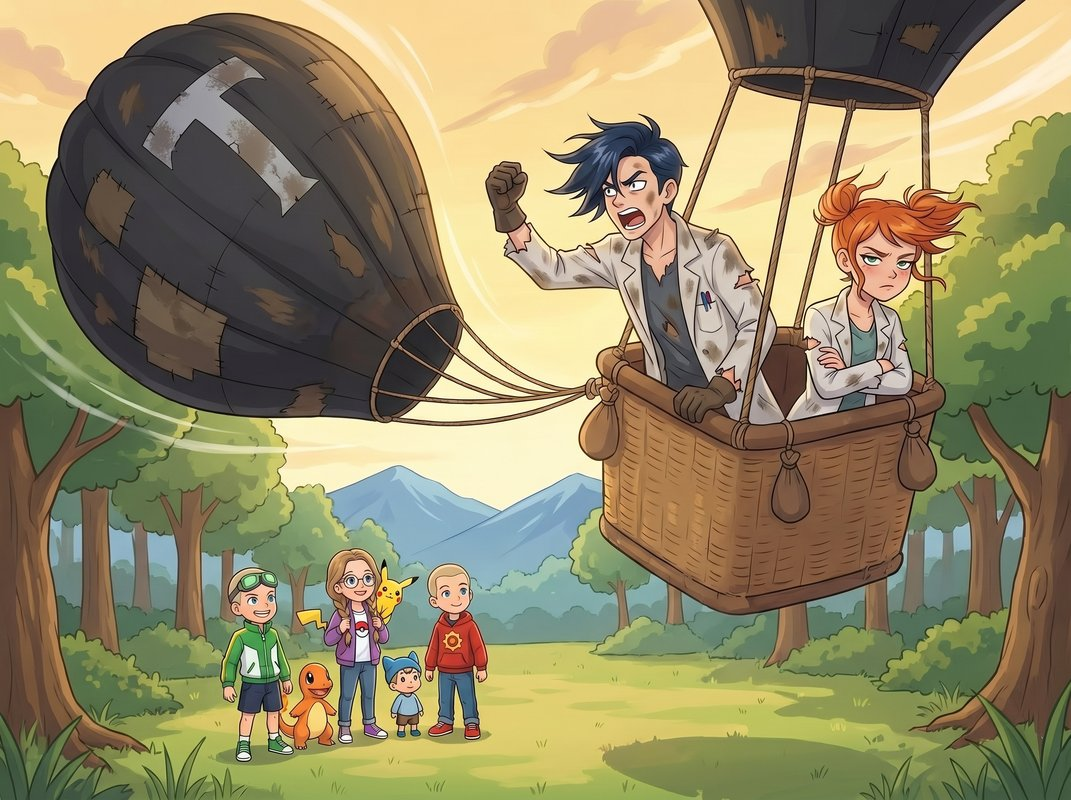
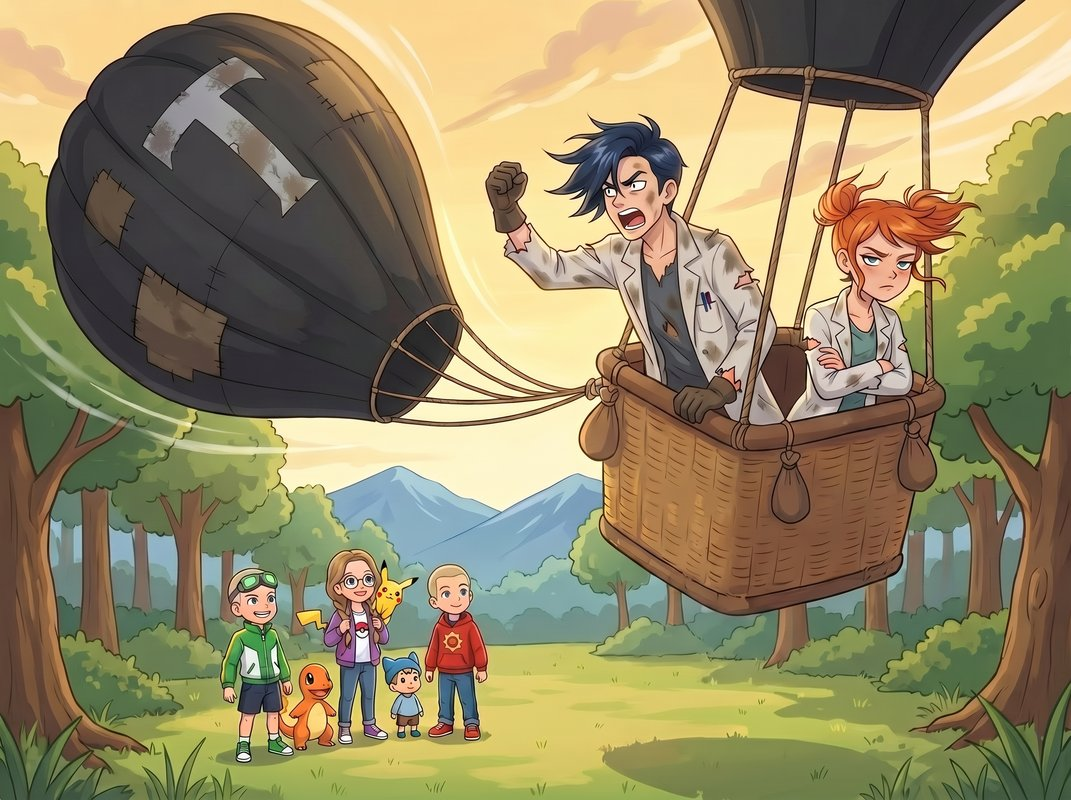
Ep9 v2: правки по ревью автора
- Текст: убрано масло в Сцене 1 (жонглирование камушками), очки → молочно-белые, диалог Нико переделан (эмпатия через руку), удалён arithmetic-диалог, убрано упоминание камня, Пикачу прячется в тени (не на виду)
- Scene 1 регенерация — без хлеба/масла, Макстер жонглирует камушками
- Scene 3 регенерация — Ромус ВНУТРИ клетки смотрит через щель
- Scene 4 image-to-image fix — один шар вместо трёх
- Scene 5 (новая) — Грей вид со спины в лаборатории
- HTML: заголовки сцен <h2 class="scene-title">

diff --git a/episodes/ep09.html b/episodes/ep09.html
@@ -11,7 +11,6 @@
 <style>
 .poster { background:#fff8ee; border:2px solid #c4a46c; border-radius:8px; padding:14px 22px; text-align:center; margin:16px 0; font-family:'Comfortaa',sans-serif; color:#3c2a1a; }
 .poster em { color:#7b4bc4; font-size:0.9em; }
-.scene-break { text-align:center; color:#c4a46c; font-size:1.3em; letter-spacing:0.4em; margin:32px 0 16px; }
 </style>
 </head>
 <body>
@@ -26,6 +25,7 @@
 <div class="episode-header"><p class="season-label">Сезон 1</p><h1>Эпизод 9. «Ловушка Команды Тень»</h1></div>
 <button class="print-btn" onclick="window.print()">🖨 Печать</button>
 <div class="episode-text">
+<h2 class="scene-title">Объявление на столбе</h2>
 <img src="../images/ep09/ep09_scene1_morning.jpg" alt="" class="episode-illustration" loading="lazy">
 <p>Костёр догорал в сероватый предрассветный воздух. Пар от кружки поднимался прямо и тонко — ветер спал.</p>
 <p>Ромус сидел с блокнотом на коленях. Красная худи с шестерёнкой была расстёгнута на одну пуговицу — так удобнее дышать. Рядом, у ноги, Бульбазавр (Bulbasaur) тихо принюхивался к траве. Луковица на спине чуть-чуть покачивалась — Бульбазавр просто смотрел, как просыпается лес.</p>
@@ -40,15 +40,17 @@
 <p class="dialogue">— Доброе, — кивнула Кристи. — Ты выспался? Там внутри не тесно?</p>
 <p class="dialogue">— Ктер-ктер.</p>
 <p class="dialogue">— Это значит «нет». Отлично.</p>
-<p>Макстер откусил огромный кусок хлеба. Зелёные гоглы на лбу сдвинулись чуть на один бок — он их всегда поправлял, когда жевал. Масла поверх хлеба было ровно <strong>на палец меньше</strong>, чем неделю назад — он гордо об этом помнил.</p>
-<p class="dialogue">— Видали? — Макстер показал хлеб. — Режим спокойного тренера работает.</p>
-<p class="dialogue">— Всего четыре дня, — не отрываясь от блокнота, произнёс Ромус.</p>
-<p class="dialogue">— Четыре — это много. Это почти неделя.</p>
-<p class="dialogue">— Это не неделя.</p>
-<p class="dialogue">— Почти неделя — это тоже много. Кристи, скажи ему.</p>
-<p>Кристи не подняла глаз.</p>
-<p class="dialogue">— Четыре — это четыре.</p>
-<p>Макстер обиженно откусил ещё кусок.</p>
+<p>Макстер сидел на бревне и жонглировал тремя круглыми камушками. Два подбросил, третий попытался поймать — и промахнулся. Камушек глухо шлёпнулся на мох у его ноги.</p>
+<p class="dialogue">— Видали? — Макстер победно поднял два оставшихся. — Два из трёх. Это почти два из двух!</p>
+<p class="dialogue">— Это два из трёх, — не отрываясь от блокнота, произнёс Ромус.</p>
+<p class="dialogue">— Но почти!</p>
+<p class="dialogue">— Четыре дня назад было один из трёх. Прогресс.</p>
+<p class="dialogue">— Режим спокойного тренера, — важно заявил Макстер. — Сначала спокойствие. Потом жонглирование четырьмя камушками.</p>
+<p class="dialogue">— Начни с трёх.</p>
+<p class="dialogue">— А я с чего начал?</p>
+<p class="dialogue">— С двух.</p>
+<p class="dialogue">— А-а. — Макстер задумался. Третий камушек нашёл в мху. — Тогда да. Прогресс.</p>
+<p>Кристи не подняла глаз от Покедекса, но уголки её губ дрогнули.</p>
 <p>Иви (Eevee) аристократично потянулся у ног Кристи. Сикстейлс (Vulpix) лежала рядом и следила за Пикачу взглядом судьи — шесть хвостов чуть подёргивались во сне.</p>
 <p>Собрались быстро. Бульбазавр пошёл впереди рядом с Ромусом. Сквиртл, как всегда, вперёд-назад — проверял путь, как важный снабженец экспедиции.</p>
 <p>Тропа вывела к грунтовой дороге. Пахло пылью, листьями и чем-то сладким, перезрелым — где-то в кустах лопались яблоки-падальцы. Издалека доносился низкий, ровный гул — большой город.</p>
@@ -79,8 +81,9 @@
 <p class="dialogue">— Пошли. Он один не вернётся.</p>
 <p>Тропа заворачивала. За поворотом, на поляне у пруда, стоял <strong>большой белый шатёр</strong>. Новенький — ткань ещё пахла складом, как новые кроссовки. У входа — две фигуры в <strong>белых халатах</strong>. Они улыбались.</p>
 <p>Широко. Слишком широко.</p>
+<h2 class="scene-title">Белые халаты</h2>
 <img src="../images/ep09/ep09_scene2_tent.jpg" alt="" class="episode-illustration" loading="lazy">
-<p>Высокий парень в халате шагнул навстречу. Чёрные волосы прилизаны гелем на пробор, на носу — очки без стёкол (пустая оправа). Рядом — девушка в таком же халате и с пучками рыжих волос, собранными в два высоких хвоста. В руках — планшет с бланком.</p>
+<p>Высокий парень в халате шагнул навстречу. Чёрные волосы прилизаны гелем на пробор, на носу — очки с молочно-белыми стёклами: глаз за ними не видно. Рядом — девушка в таком же халате и с пучками рыжих волос, собранными в два высоких хвоста. В руках — планшет с бланком.</p>
 <p class="dialogue">— Добрррро пожаловать! — мужчина раскинул руки. — Институт Экспериментального Покемоноведения приветствует опытных тренеров!</p>
 <p class="dialogue">— Очень опытных, — кивнула девушка. — Самых опытных.</p>
 <p>Макстер просиял.</p>
@@ -101,15 +104,17 @@
 <p>Сверху опустилась вторая клетка. Металлическая решётка с гудящими <strong>красными кольцами</strong> на концах прутьев. Кольца пульсировали — как лампочки, только не свет, а низкий гул. «БЗЗЗ. БЗЗЗ.»</p>
 <p>Макстер оказался внутри.</p>
 <p class="dialogue">— Э… — Макстер схватился за прутья. Отдёрнул руку — кольца щипали. — Ой!</p>
-<p>Кристи и Ромус бросились к шатру. Тот же «ХРЯСЬ» — и вторая клетка упала прямо вокруг них. Пикачу едва успел спрыгнуть — проскочил между прутьями в последний момент и замер снаружи, на полу. Щёки искрили.</p>
+<p>Кристи и Ромус бросились к шатру. Тот же «ХРЯСЬ» — и вторая клетка упала прямо вокруг них. Пикачу едва успел спрыгнуть с плеча — <strong>проскользнул между прутьями</strong> в последний момент и тут же нырнул в узкую тень под соседней клеткой, где сидели дикие покемоны. Прижался к металлическому основанию. Замер.</p>
+<p>Щёки дрогнули — хотели искрить. Но Пикачу зажмурился и <strong>сдержал</strong> разряд. Искры шевельнулись внутри и погасли. Он вжался в тень ещё плотнее.</p>
+<p>Кристи едва-едва двинула губами, глядя прямо перед собой, не в его сторону:</p>
+<p class="dialogue">— Тихо. Сиди тихо. Никто не видит.</p>
 <p>Иви, Сикстейлс и Катерпи остались <strong>внутри</strong> — в рюкзаке и на плечах. Бульбазавр <strong>снаружи</strong> — он шёл рядом с Ромусом и в шатёр не зашёл. Сквиртл и Чармандер успели юркнуть в свои покеболы за секунду до падения решётки.</p>
-<p class="dialogue">— Пи-ка?! — Пикачу развернулся к клетке, шерсть дыбом.</p>
-<p class="dialogue">— Стой, — Кристи подняла руку. — Не подходи к кольцам.</p>
+<p>Пикачу под соседней клеткой сидел неподвижно. Только хвост чуть дрожал — от злости, которую он сам себе запретил выпускать.</p>
 <p>Макстер в другой клетке пинал прут.</p>
 <p class="dialogue">— А если так?</p>
 <p>«БЗЗЗ!» — кольцо дало разряд. Макстера отбросило на шаг.</p>
 <p class="dialogue">— Не так.</p>
-<p>Мужчина и девушка в халатах сняли очки без стёкол. Переглянулись.</p>
+<p>Мужчина и девушка в халатах сняли молочно-белые очки. Переглянулись.</p>
 <p class="dialogue">— Сработало, — произнёс мужчина своим нормальным голосом. — Сработало, Фокс.</p>
 <p class="dialogue">— В третий раз из четырёх. Почти рекорд.</p>
 <p class="dialogue">— <strong>Дарк!</strong> — Макстер распахнул рот. — Это ВЫ?!</p>
@@ -151,19 +156,16 @@
 <p class="dialogue">— Правда?</p>
 <p>Кристи замерла на полсекунды.</p>
 <p class="dialogue">— Сейчас узнаю точно.</p>
-<p>Кристи села на пол прямо у решётки между её клеткой и клеткой Нико. Пикачу снаружи подошёл ближе, прижался щекой к прутьям. Катерпи из-под ремешка рюкзака пискнул:</p>
+<h2 class="scene-title">Лозы и искры</h2>
+<p>Кристи села на пол прямо у решётки между её клеткой и клеткой Нико. В узкой тени под соседней клеткой, в шаге от них, она <strong>боковым зрением</strong> видела маленькую жёлтую мордочку — Пикачу лежал неподвижно, одни глаза блестели. Она не повернулась к нему. Нельзя.</p>
+<p>Катерпи из-под ремешка рюкзака пискнул:</p>
 <p class="dialogue">— Ктер-ктер-ктер.</p>
 <p class="dialogue">— Тише, маленький, — Кристи провела пальцем по его усикам. — Ты со мной. Ты в безопасности.</p>
 <p>Она посмотрела на Нико через решётку. Он сжимал колени обеими руками.</p>
-<p class="dialogue">— Нико, сколько тебе лет?</p>
-<p class="dialogue">— Семь.</p>
-<p class="dialogue">— А мне десять. Я тебя старше на три года.</p>
-<p class="dialogue">— Знаю.</p>
-<p class="dialogue">— И у меня четыре покемона. У Ромуса двое. У Макстера двое. Всего — восемь.</p>
-<p class="dialogue">— Я считал, — тихо сказал Нико.</p>
-<p class="dialogue">— Умница. А у тебя сколько покемонов?</p>
-<p class="dialogue">— Ни одного.</p>
-<p class="dialogue">— Один есть. У тебя есть мы. Мы — восемь. Значит восемь покемонов и трое тренеров на твоей стороне.</p>
+<p>Кристи медленно просунула руку через зазор между прутьями. Не сказала ничего. Просто ладонью вверх.</p>
+<p>Нико посмотрел на её ладонь. Потом на её лицо.</p>
+<p>Потом протянул свою — маленькую, холодную — и вложил в её руку. Кристи сжала. Один раз. Тихо.</p>
+<p class="dialogue">— Мы тебя не оставим, — произнесла она. — Ни за что.</p>
 <p>Нико медленно выдохнул. В первый раз за минуту.</p>
 <p>Макстер из своей клетки смотрел на эту сцену. Рот открыт, но без слов — впервые за неделю. Он тихо сел на пол и слушал.</p>
 <p>Ромус у своей стенки клетки наклонился к прутьям.</p>
@@ -184,11 +186,12 @@
 <p>Дарк у клетки Макстера объяснял Фокс какую-то схему, размахивая руками. Фокс что-то записывала в планшет. Спиной к Ромусу.</p>
 <p>Кристи заметила взгляд Ромуса в сторону щели. Проследила. Увидела Бульбазавра.</p>
 <p>Секунду ничего не изменилось.</p>
-<p>Потом Кристи повернулась к Пикачу — он стоял по ту сторону прутьев — и тихо показала ему на тонкий зазор. Зазор был узкий, но Пикачу маленький.</p>
-<p class="dialogue">— Пика, — прошептала она. — Видишь Фокс?</p>
-<p>Пикачу проследил глазами. Увидел. Уши прижались. Щёки напряглись.</p>
-<p class="dialogue">— Ещё <strong>не бей</strong>. Только когда скажу.</p>
-<p>Пикачу посмотрел. Кивнул. Один раз.</p>
+<p>Кристи смотрела на Нико, не поворачивая головы. Но её губы едва-едва двигались — для Пикачу в тени:</p>
+<p class="dialogue">— Пика. Видишь Фокс?</p>
+<p>Пикачу не пошевелился снаружи. Только глаза блеснули — увидел.</p>
+<p class="dialogue">— Ещё <strong>не бей</strong>. Жди меня.</p>
+<p>Пикачу моргнул в тени. Один раз. Медленно. Понял.</p>
+<p>Щёки остались тёмными. Он держал разряд в себе — как воду в ладонях.</p>
 <p>Ромус снова повернулся к Бульбазавру.</p>
 <p class="dialogue">— Давай.</p>
 <p>Бульбазавр выпустил <strong>две тонкие лозы</strong>. Они поползли по земле беззвучно, как зелёные ручейки. Одна лоза подползла к краю шатра, проскользнула под ткань в щель, отыскала кабель и начала медленно оборачиваться вокруг него.</p>
@@ -205,7 +208,7 @@
 <p>Дарк посмотрел. Увидел.</p>
 <p class="dialogue">— ЛОЗА?!</p>
 <p>Он рванул к выходу из шатра. Фокс за ним — планшет полетел на землю.</p>
-<p><strong>Пикачу.</strong> Кристи не успела договорить «давай» — Пикачу сам сорвался. Проскочил под полог шатра, как рыжая молния. В щель между ног Дарка. Выскочил наружу — прямо на Фокс.</p>
+<p><strong>Пикачу.</strong> Кристи не успела шепнуть «пора» — Пикачу уже метнулся. <strong>Выстрелил</strong> из тени под соседней клеткой, будто сжатая пружина наконец отпустилась. Проскочил под полог шатра, как рыжая молния. В щель между ног Дарка. Выскочил наружу — прямо на Фокс. Она ничего не услышала заранее: искр не было — Пикачу копил их всё это время.</p>
 <img src="../images/ep09/ep09_scene3b_pikachu.jpg" alt="" class="episode-illustration" loading="lazy">
 <p class="dialogue">— <strong>Thunder Shock!</strong></p>
 <p>Короткий, резкий. Голубая вспышка прошла Фокс по плечам.</p>
@@ -231,8 +234,8 @@
 <p class="dialogue">— Ты гений.</p>
 <p class="dialogue">— Я просто смотрел. <em>Ты так всегда делаешь.</em></p>
 <p>Он не сказал последнее вслух. Только подумал.</p>
-<p>Они выбежали из шатра. Кристи на бегу нащупала в кармане куртки серебряный камень — <strong>он был тёплый, как вчера вечером</strong>. Даже чуть теплее. Она записала в голове: «Проверить позже. Сравнить с утром.» И побежала дальше.</p>
-<p>Макстер на бегу нажал кнопку покебола:</p>
+<h2 class="scene-title">И снова ветер</h2>
+<p>Они выбежали из шатра. Макстер на бегу нажал кнопку покебола:</p>
 <p class="dialogue">— Чармандер, со мной.</p>
 <p>Красная вспышка — и Чармандер (Charmander) выскочил у его ноги. Хвост бодро горел — рад был выйти после часа в покеболе. Макстер последним — он сначала отодвинул решётку соседней клетки и <strong>осторожно</strong> взял Нико за руку:</p>
 <p class="dialogue">— Пошли, малой. С нами.</p>
@@ -302,7 +305,7 @@
 <p class="dialogue">— Иду.</p>
 <p>Высоко над лесом, где небо уже стало совсем голубым, что-то большое и крылатое прошло беззвучно. Одна ветка качнулась, и снова замерла.</p>
 <img src="../images/ep09/ep09_scene4b_record.jpg" alt="" class="episode-illustration" loading="lazy">
-<p class="scene-break">◆ ◆ ◆</p>
+<h2 class="scene-title">Тихая лаборатория</h2>
 <p>В полутёмной комнате с низким потолком на столе лежал <strong>маленький чёрный ошейник</strong>. На нём — красная лампочка. Лампочка мигала медленно. Раз. Два. Пауза. Раз. Два.</p>
 <p>Мужская рука в чёрной перчатке поднесла ошейник к свету. Осмотрела соединения — тонкие медные дорожки, крошечные винтики.</p>
 <p class="dialogue">— Ловушка снова провалилась, — произнёс голос. Тихо. Спокойно. Без злости. — Эти трое… они не случайность.</p>
@@ -315,6 +318,7 @@
 <p class="dialogue">— Иди. Следи за ними.</p>
 <p>Кроубат наклонил голову. Посмотрел на ошейник на столе. Потом на спину своего хозяина.</p>
 <p>И вылетел в тёмный прямоугольник окна. Беззвучно.</p>
+<img src="../images/ep09/ep09_scene5_grey.jpg" alt="" class="episode-illustration" loading="lazy">
 <p>Красная лампочка на ошейнике мигнула. Раз. Два.</p>
 <p>Пауза.</p>
 <p>Раз. Два.</p>
